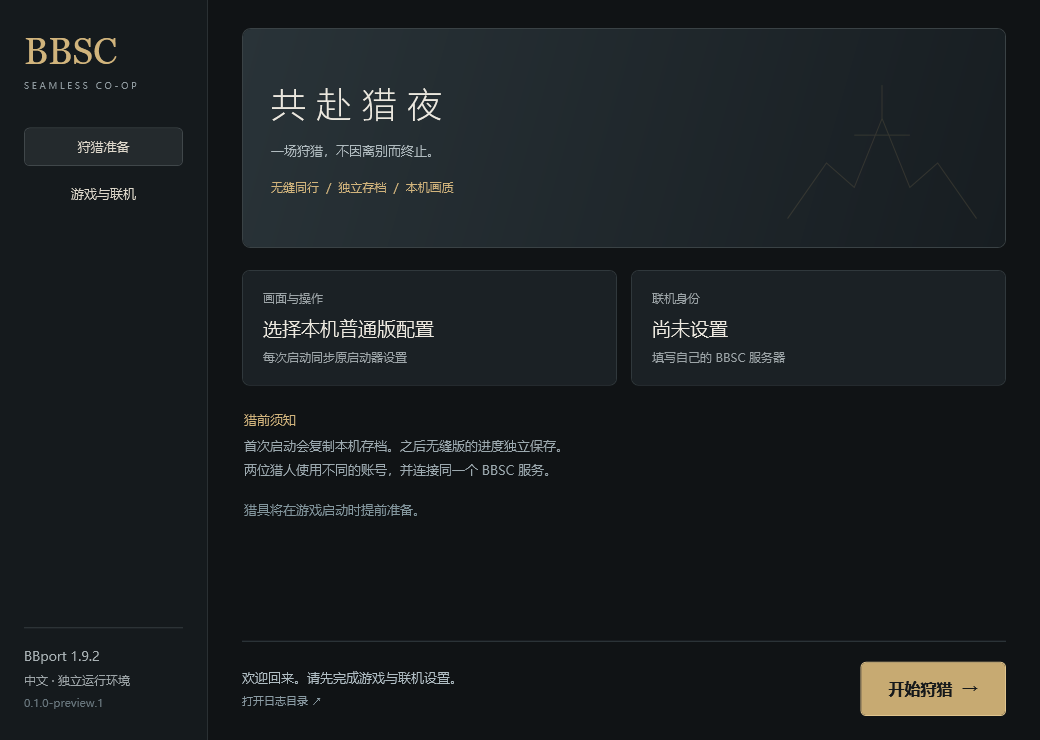
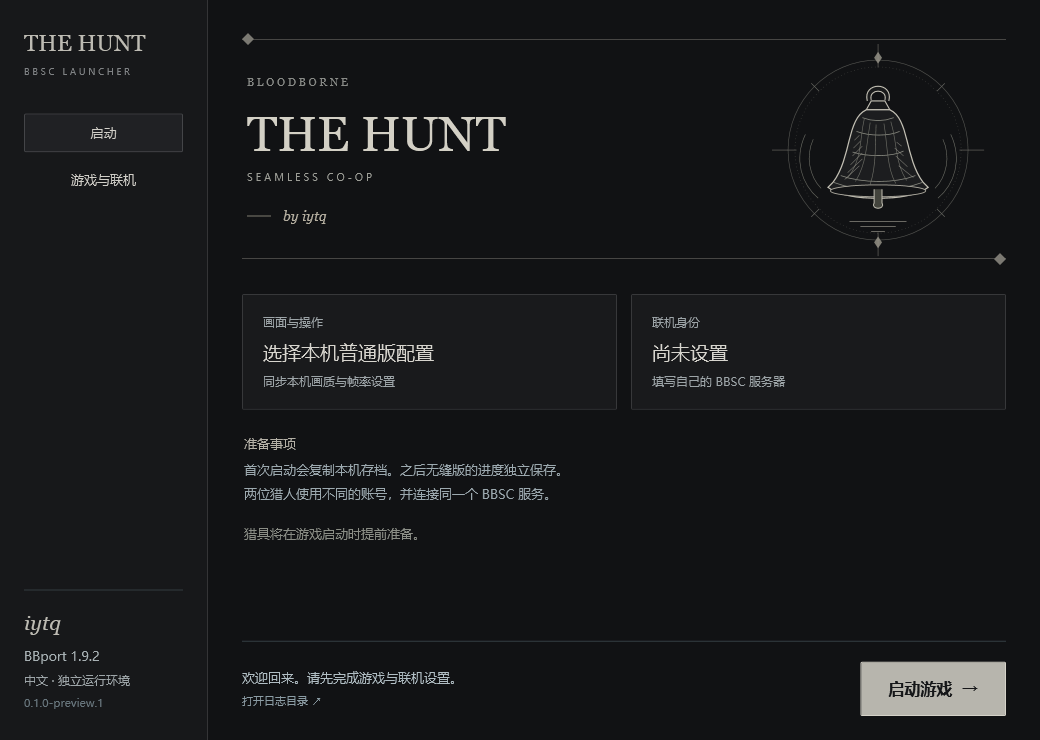
Brand the launcher as The Hunt by iytq with silver bell artwork

diff --git a/launcher/Launcher.xaml b/launcher/Launcher.xaml
@@ -1,26 +1,26 @@
 <Window xmlns="http://schemas.microsoft.com/winfx/2006/xaml/presentation"
         xmlns:x="http://schemas.microsoft.com/winfx/2006/xaml"
-        Title="BBSC Launcher · 共赴猎夜" Width="1040" Height="740" MinWidth="920" MinHeight="680"
-        WindowStartupLocation="CenterScreen" Background="#101315" Foreground="#EBE7DE"
+        Title="The Hunt · BBSC Launcher by iytq" Width="1040" Height="740" MinWidth="920" MinHeight="680"
+        WindowStartupLocation="CenterScreen" Background="#111214" Foreground="#D7D5CE"
         FontFamily="Microsoft YaHei UI" FontSize="13">
   <Window.Resources>
     <Style TargetType="TextBox">
-      <Setter Property="Background" Value="#13181B"/><Setter Property="Foreground" Value="#EBE7DE"/>
-      <Setter Property="BorderBrush" Value="#394043"/><Setter Property="Padding" Value="10,8"/>
-      <Setter Property="VerticalContentAlignment" Value="Center"/><Setter Property="CaretBrush" Value="#D1B47C"/>
+      <Setter Property="Background" Value="#141517"/><Setter Property="Foreground" Value="#D7D5CE"/>
+      <Setter Property="BorderBrush" Value="#3D3E40"/><Setter Property="Padding" Value="10,8"/>
+      <Setter Property="VerticalContentAlignment" Value="Center"/><Setter Property="CaretBrush" Value="#B5B3AA"/>
     </Style>
     <Style TargetType="PasswordBox">
-      <Setter Property="Background" Value="#13181B"/><Setter Property="Foreground" Value="#EBE7DE"/>
-      <Setter Property="BorderBrush" Value="#394043"/><Setter Property="Padding" Value="10,8"/>
+      <Setter Property="Background" Value="#141517"/><Setter Property="Foreground" Value="#D7D5CE"/>
+      <Setter Property="BorderBrush" Value="#3D3E40"/><Setter Property="Padding" Value="10,8"/>
     </Style>
     <Style TargetType="Button">
-      <Setter Property="Foreground" Value="#DED8CB"/><Setter Property="Background" Value="#242A2D"/>
-      <Setter Property="BorderBrush" Value="#40474A"/><Setter Property="BorderThickness" Value="1"/>
+      <Setter Property="Foreground" Value="#D1CFC8"/><Setter Property="Background" Value="#202124"/>
+      <Setter Property="BorderBrush" Value="#444548"/><Setter Property="BorderThickness" Value="1"/>
       <Setter Property="Padding" Value="18,10"/><Setter Property="Cursor" Value="Hand"/>
       <Setter Property="Template"><Setter.Value>
         <ControlTemplate TargetType="Button">
           <Border x:Name="Body" Background="{TemplateBinding Background}" BorderBrush="{TemplateBinding BorderBrush}"
-                  BorderThickness="{TemplateBinding BorderThickness}" CornerRadius="5" Padding="{TemplateBinding Padding}">
+                  BorderThickness="{TemplateBinding BorderThickness}" CornerRadius="1" Padding="{TemplateBinding Padding}">
             <ContentPresenter HorizontalAlignment="Center" VerticalAlignment="Center"/>
           </Border>
           <ControlTemplate.Triggers>
@@ -39,16 +39,17 @@
   </Window.Resources>
   <Grid>
     <Grid.ColumnDefinitions><ColumnDefinition Width="208"/><ColumnDefinition Width="*"/></Grid.ColumnDefinitions>
-    <Border Background="#151A1D" BorderBrush="#2A3033" BorderThickness="0,0,1,0">
+    <Border Background="#17181A" BorderBrush="#343436" BorderThickness="0,0,1,0">
       <DockPanel Margin="24,30">
         <StackPanel DockPanel.Dock="Top">
-          <TextBlock Text="BBSC" FontFamily="Georgia" FontSize="37" Foreground="#D1B47C"/>
-          <TextBlock Text="S E A M L E S S   C O - O P" FontSize="9" Foreground="#8E999E" Margin="0,8,0,36"/>
-          <Button x:Name="HomeNav" Content="狩猎准备" HorizontalContentAlignment="Left" Margin="0,0,0,10"/>
+          <TextBlock Text="THE HUNT" FontFamily="Georgia" FontSize="23" Foreground="#BDBBB3"/>
+          <TextBlock Text="B B S C   L A U N C H E R" FontSize="9" Foreground="#7F8284" Margin="0,10,0,36"/>
+          <Button x:Name="HomeNav" Content="启动" HorizontalContentAlignment="Left" Margin="0,0,0,10"/>
           <Button x:Name="SettingsNav" Content="游戏与联机" Background="Transparent" BorderThickness="0"/>
         </StackPanel>
         <StackPanel DockPanel.Dock="Bottom" VerticalAlignment="Bottom">
           <Border Height="1" Background="#343B3F" Margin="0,0,0,20"/>
+          <TextBlock Text="iytq" FontFamily="Georgia" FontStyle="Italic" FontSize="21" Foreground="#BDBBB3" Margin="0,0,0,14"/>
           <TextBlock Text="BBport 1.9.2" Foreground="#A8B1B4"/>
           <TextBlock Text="中文 · 独立运行环境" Style="{StaticResource Caption}" Margin="0,8,0,8"/>
           <TextBlock Text="0.1.0-preview.1" FontSize="11" Foreground="#68767D"/>
@@ -59,32 +60,74 @@
     <Grid Grid.Column="1" Margin="34,28,34,24">
       <Grid.RowDefinitions><RowDefinition Height="*"/><RowDefinition Height="Auto"/></Grid.RowDefinitions>
       <Grid x:Name="HomePage">
-        <Grid.RowDefinitions><RowDefinition Height="220"/><RowDefinition Height="Auto"/><RowDefinition Height="*"/></Grid.RowDefinitions>
-        <Border CornerRadius="8" BorderBrush="#3A4245" BorderThickness="1">
-          <Border.Background><LinearGradientBrush StartPoint="0,0" EndPoint="1,1">
-            <GradientStop Color="#293338" Offset="0"/><GradientStop Color="#171D21" Offset="1"/>
-          </LinearGradientBrush></Border.Background>
-          <Grid Margin="28">
-            <Path Data="M 0,120 L 35,70 60,92 85,30 110,92 135,70 170,120 M 85,30 L 85,0 M 60,45 L 110,45"
-                  Stroke="#BD9F68" StrokeThickness="1" Opacity="0.16" Width="190" Height="160"
-                  Stretch="Uniform" HorizontalAlignment="Right" VerticalAlignment="Bottom"/>
-            <StackPanel VerticalAlignment="Center">
-              <TextBlock Text="共 赴 猎 夜" FontFamily="Microsoft YaHei UI" FontSize="35" FontWeight="Light"/>
-              <TextBlock Text="一场狩猎，不因离别而终止。" Foreground="#B0BBBF" Margin="0,17,0,20"/>
-              <TextBlock Text="无缝同行  /  独立存档  /  本机画质" Foreground="#D1B47C" FontSize="12"/>
+        <Grid.RowDefinitions><RowDefinition Height="244"/><RowDefinition Height="Auto"/><RowDefinition Height="*"/></Grid.RowDefinitions>
+        <Grid>
+          <Border BorderBrush="#474644" BorderThickness="0,1,0,1" Margin="0,11,0,13"/>
+          <Path Data="M 0,0 L 6,6 0,12 -6,6 Z" Fill="#7B7972" Width="12" Height="12"
+                Stretch="Fill" HorizontalAlignment="Left" VerticalAlignment="Top" Margin="0,5,0,0"/>
+          <Path Data="M 0,0 L 6,6 0,12 -6,6 Z" Fill="#7B7972" Width="12" Height="12"
+                Stretch="Fill" HorizontalAlignment="Right" VerticalAlignment="Bottom" Margin="0,0,0,7"/>
+          <Viewbox Width="226" Height="216" HorizontalAlignment="Right" Margin="0,10,20,10">
+            <!-- Original line artwork: bell, orbital rings and engraved hatching. -->
+            <Canvas x:Name="BellEmblem" Width="220" Height="220">
+              <Ellipse Width="184" Height="184" Canvas.Left="18" Canvas.Top="18" Stroke="#76766F" StrokeThickness="0.65" Opacity="0.65"/>
+              <Ellipse Width="170" Height="170" Canvas.Left="25" Canvas.Top="25" Stroke="#555650" StrokeThickness="0.6" StrokeDashArray="1,5"/>
+              <Path Data="M110,2 L110,26 M110,194 L110,218 M2,110 L27,110 M193,110 L218,110
+                          M42,42 L50,50 M170,170 L178,178 M42,178 L50,170 M170,50 L178,42"
+                    Stroke="#6D6D66" StrokeThickness="0.7"/>
+              <Path Data="M110,10 L114,16 110,22 106,16 Z M110,198 L114,204 110,210 106,204 Z"
+                    Fill="#9C998D" Opacity="0.8"/>
+              <Path Data="M99,60 C94,40 126,40 121,60 M103,59 C100,47 120,47 117,59
+                          M103,60 L117,60 122,69 98,69 Z"
+                    Stroke="#C3C0B4" StrokeThickness="1.1" Fill="#191A1B"/>
+              <Path Data="M98,69 C78,78 83,118 64,143 L59,148
+                          C78,163 142,163 161,148 L156,143
+                          C137,118 142,78 122,69 Z"
+                    Stroke="#C3C0B4" StrokeThickness="1.25" Fill="#1C1D1F"/>
+              <Path Data="M65,143 C91,153 129,153 155,143
+                          M72,136 C94,144 128,144 148,136
+                          M84,112 C98,117 125,117 136,111
+                          M88,91 C101,96 121,96 132,91
+                          M94,77 C104,81 116,81 126,77"
+                    Stroke="#8B8C82" StrokeThickness="0.8"/>
+              <Path Data="M96,78 C91,99 94,122 78,139 M102,82 C98,106 98,124 87,142
+                          M108,84 C107,108 108,126 102,145 M116,83 C120,108 119,128 128,144
+                          M123,81 C130,105 127,122 139,141"
+                    Stroke="#6C6D65" StrokeThickness="0.65"/>
+              <Path Data="M86,100 L91,95 M85,108 L92,101 M84,116 L94,106 M82,125 L94,113
+                          M79,133 L94,119 M76,140 L91,126
+                          M129,102 L134,106 M127,108 L136,116 M128,116 L140,127 M131,126 L146,138"
+                    Stroke="#A09F94" StrokeThickness="0.55" Opacity="0.75"/>
+              <Ellipse Width="98" Height="13" Canvas.Left="61" Canvas.Top="145" Stroke="#ACA99E" StrokeThickness="0.9" Fill="#121315"/>
+              <Path Data="M106,150 L106,164 C102,171 118,171 114,164 L114,150"
+                    Stroke="#C3C0B4" StrokeThickness="1" Fill="#43443D"/>
+              <Path Data="M44,99 C36,116 40,137 52,149 M176,99 C184,116 180,137 168,149
+                          M36,94 C24,119 32,145 49,159 M184,94 C196,119 188,145 171,159"
+                    Stroke="#7D7E74" StrokeThickness="0.6" Opacity="0.85"/>
+              <Path Data="M81,183 L139,183 M92,188 L128,188 M103,193 L117,193"
+                    Stroke="#A09D92" StrokeThickness="0.65"/>
+            </Canvas>
+          </Viewbox>
+          <StackPanel VerticalAlignment="Center" Margin="5,0,238,0">
+            <TextBlock Text="B L O O D B O R N E" FontFamily="Georgia" Foreground="#898B87" FontSize="11"/>
+            <TextBlock Text="THE HUNT" FontFamily="Georgia" FontSize="49" Foreground="#D3D0C5" Margin="0,17,0,10"/>
+            <TextBlock Text="S E A M L E S S   C O - O P" Foreground="#9D9E97" FontSize="10"/>
+            <StackPanel Orientation="Horizontal" Margin="0,24,0,0">
+              <Border Width="24" Height="1" Background="#807C70" VerticalAlignment="Center" Margin="0,0,12,0"/>
+              <TextBlock Text="by iytq" FontFamily="Georgia" FontStyle="Italic" Foreground="#B5AFA0" FontSize="14"/>
             </StackPanel>
-          </Grid>
-        </Border>
+          </StackPanel>
+        </Grid>
         <Grid Grid.Row="1" Margin="0,22,0,0">
           <Grid.ColumnDefinitions><ColumnDefinition/><ColumnDefinition Width="14"/><ColumnDefinition/></Grid.ColumnDefinitions>
-          <Border Background="#1B2125" BorderBrush="#30383C" BorderThickness="1" CornerRadius="7" Padding="20">
+          <Border Background="#191A1C" BorderBrush="#37383A" BorderThickness="1" CornerRadius="1" Padding="20">
             <StackPanel>
               <TextBlock Text="画面与操作" Style="{StaticResource Caption}"/>
               <TextBlock x:Name="GraphicsSummary" Text="选择本机普通版配置" FontSize="19" Margin="0,10,0,9"/>
-              <TextBlock Text="每次启动同步原启动器设置" Style="{StaticResource Caption}"/>
+              <TextBlock Text="同步本机画质与帧率设置" Style="{StaticResource Caption}"/>
             </StackPanel>
           </Border>
-          <Border Grid.Column="2" Background="#1B2125" BorderBrush="#30383C" BorderThickness="1" CornerRadius="7" Padding="20">
+          <Border Grid.Column="2" Background="#191A1C" BorderBrush="#37383A" BorderThickness="1" CornerRadius="1" Padding="20">
             <StackPanel>
               <TextBlock Text="联机身份" Style="{StaticResource Caption}"/>
               <TextBlock x:Name="AccountSummary" Text="尚未设置" FontSize="19" Margin="0,10,0,9"/>
@@ -93,17 +136,17 @@
           </Border>
         </Grid>
         <StackPanel Grid.Row="2" Margin="2,26,2,0">
-          <TextBlock Text="猎前须知" Foreground="#D1B47C" Margin="0,0,0,10"/>
+          <TextBlock Text="准备事项" Foreground="#B4B0A6" Margin="0,0,0,10"/>
           <TextBlock Text="首次启动会复制本机存档。之后无缝版的进度独立保存。&#x0a;两位猎人使用不同的账号，并连接同一个 BBSC 服务。"
                      Foreground="#9CA9AF" TextWrapping="Wrap" LineHeight="24"/>
-          <TextBlock x:Name="KitStatus" Text="猎具将在游戏启动时提前准备。" Foreground="#83969D" Margin="0,16,0,0"/>
+          <TextBlock x:Name="KitStatus" Text="猎具将在游戏启动时提前准备。" Foreground="#8B8E86" Margin="0,16,0,0"/>
         </StackPanel>
       </Grid>
       <Grid x:Name="SettingsPage" Visibility="Collapsed">
         <Grid.RowDefinitions><RowDefinition Height="Auto"/><RowDefinition/></Grid.RowDefinitions>
         <StackPanel Margin="0,0,0,14">
           <TextBlock Text="游戏与联机" FontSize="26"/>
-          <TextBlock Text="一次设置，之后从这里直接开始狩猎。" Style="{StaticResource Caption}" Margin="0,8,0,0"/>
+          <TextBlock Text="一次设置，之后从这里直接启动游戏。" Style="{StaticResource Caption}" Margin="0,8,0,0"/>
         </StackPanel>
         <ScrollViewer Grid.Row="1" VerticalScrollBarVisibility="Auto" Padding="0,0,14,0">
           <StackPanel>
@@ -146,8 +189,8 @@
             <TextBlock x:Name="StatusText" Text="欢迎回来。请先完成游戏与联机设置。" TextWrapping="Wrap" Foreground="#B1BEC4"/>
             <Button x:Name="OpenLogs" Content="打开日志目录 ↗" HorizontalAlignment="Left" Background="Transparent" BorderThickness="0" Padding="0,8,0,0" FontSize="11" Foreground="#8B9CA4"/>
           </StackPanel>
-          <Button x:Name="Launch" Grid.Column="1" Content="开始狩猎  →" Background="#C7AA72" Foreground="#16191B"
-                  BorderBrush="#E0C48D" Padding="27,16" FontSize="16" FontWeight="SemiBold"/>
+          <Button x:Name="Launch" Grid.Column="1" Content="启动游戏  →" Background="#B7B5AD" Foreground="#151618"
+                  BorderBrush="#D5D2C8" Padding="27,16" FontSize="16" FontWeight="SemiBold"/>
         </Grid>
       </Border>
     </Grid>

diff --git a/launcher/Entry.cs b/launcher/Entry.cs
@@ -4,6 +4,11 @@ using System.Diagnostics;
 using System.IO;
 using System.Windows.Forms;
 
+[assembly: System.Reflection.AssemblyTitle("The Hunt")]
+[assembly: System.Reflection.AssemblyProduct("The Hunt - BBSC Launcher")]
+[assembly: System.Reflection.AssemblyCompany("iytq")]
+[assembly: System.Reflection.AssemblyCopyright("The Hunt launcher contributions: iytq (2026)")]
+
 internal static class Entry
 {
     [STAThread]
@@ -13,7 +18,7 @@ internal static class Entry
         var script = Path.Combine(root, "Launcher.ps1");
         if (!File.Exists(script))
         {
-            MessageBox.Show("请完整解压 BBSC Launcher 后再启动。", "BBSC Launcher");
+            MessageBox.Show("请完整解压 The Hunt 启动器后再启动。", "The Hunt");
             return;
         }
         try
@@ -28,6 +33,6 @@ internal static class Entry
                 WindowStyle = ProcessWindowStyle.Hidden
             });
         }
-        catch (Exception e) { MessageBox.Show(e.Message, "BBSC Launcher"); }
+        catch (Exception e) { MessageBox.Show(e.Message, "The Hunt"); }
     }
 }

diff --git a/README.md b/README.md
@@ -1,6 +1,6 @@
-# BBSC Launcher · 共赴猎夜
+# The Hunt — BBSC Launcher
 
-适用于 Bloodborne PC 移植版的 BBSC 无缝联机启动器，提供独立运行环境、中文文本、本机配置同步与自动构建。
+由 **iytq** 维护，适用于 Bloodborne PC 移植版的 BBSC 无缝联机启动器，提供独立运行环境、中文文本、本机配置同步与自动构建。
 
 A Windows launcher and compatibility layer for BBSC seamless co-op on BBport. This is a community project, independent of the original BBSC, BBport, Sony and FromSoftware projects.
 
@@ -23,7 +23,7 @@ A Windows launcher and compatibility layer for BBSC seamless co-op on BBport. Th
 1. 从 [Actions](https://github.com/ytq77/bbsc-launcher/actions) 下载构建产物，或从 [Releases](https://github.com/ytq77/bbsc-launcher/releases) 下载预览版。完整解压到新目录。
 2. 双击 **BBSC-Launcher.exe**。无需安装 Python 或修改普通版启动器。
 3. 在「游戏与联机」选择本机普通版 `Bloodborne.exe`、游戏 `eboot.bin` 以及普通版的 `bbport.ini`。
-4. 填写服务器管理员提供的四个联机地址与个人账号，保存后点击「开始狩猎」。
+4. 填写服务器管理员提供的四个联机地址与个人账号，保存后点击「启动游戏」。
 
 需要先有能正常运行的 BBport 普通版。首次启动会复制本机存档、输入配置与模组设置，此后无缝版存档保存在本包 `data/user` 中独立发展。普通版画质和帧率设置在每次启动时重新读取，因此低配置电脑不会继承其他电脑的画质。
 
@@ -45,7 +45,7 @@ A Windows launcher and compatibility layer for BBSC seamless co-op on BBport. Th
 
 ## 本仓库的改动
 
-- 独立的深色图形启动器，显示当前配置、启动状态和猎具准备耗时。
+- The Hunt 图形启动器：旧银色、铃铛蚀刻纹样与 iytq 署名，显示当前配置、启动状态和猎具准备耗时。
 - 把猎具初始化从读档后的首次游戏循环提前到安装钩子阶段，取消首次 5 秒等待；保留失败重试与未就绪保护。
 - 用安全的内存快照扫描处理页面权限变化，避免扫描时触发宿主的致命异常处理。
 - 排除独立环境下重复加载的内置补丁 XML，保留玩家选择的其他补丁。

diff --git a/NOTICE.md b/NOTICE.md
@@ -1,6 +1,7 @@
 # Notices and provenance
 
 BBSC Launcher is an independent community launcher and compatibility patch set.
+The Hunt launcher design, integration and compatibility work: iytq (2026).
 
 This project's original launcher code and patches are provided under
 SPDX-License-Identifier: GPL-2.0-or-later. Derived code retains upstream notices.
